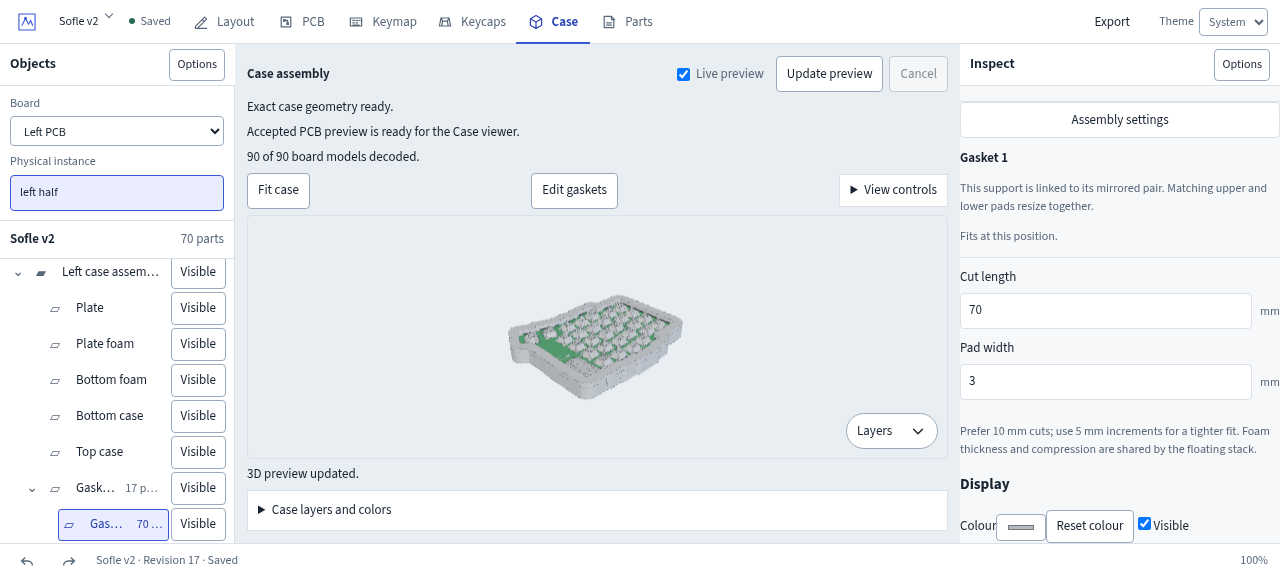
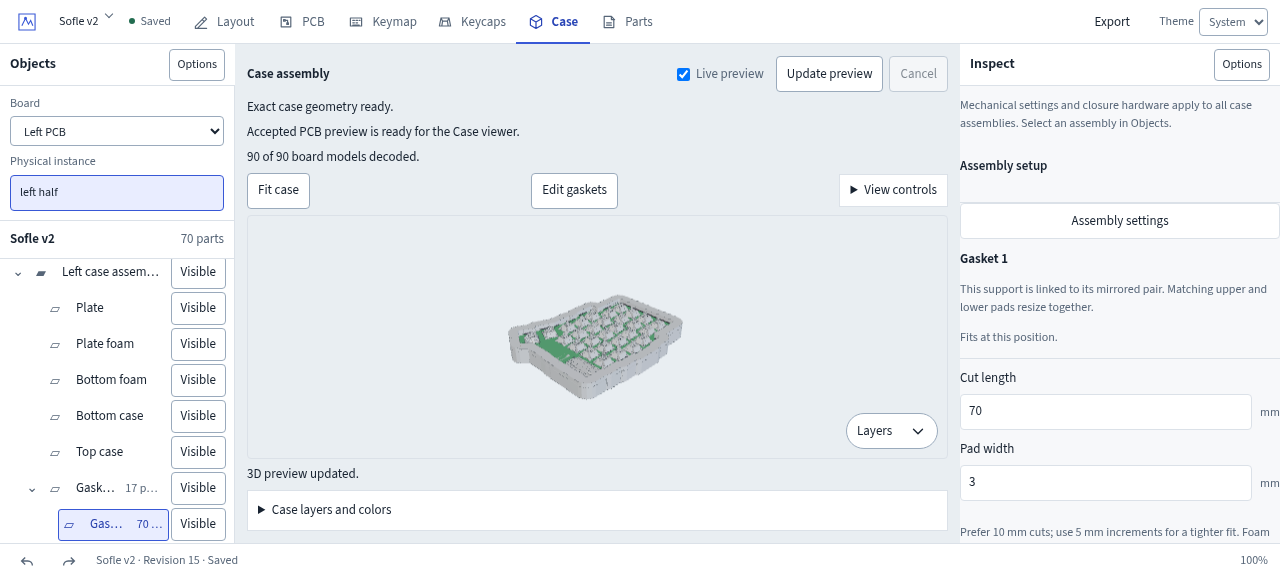
Admit gasket settings contextual selection

diff --git a/web/src/presentation/mechanical_settings_mount.rs b/web/src/presentation/mechanical_settings_mount.rs
@@ -401,7 +401,10 @@ pub(crate) fn use_mechanical_settings_mount(
             selected_layer == format!("gasket:{}:lower", support.id)
                 || selected_layer == format!("gasket:{}:upper", support.id)
         });
-        if !layers.iter().any(|layer| layer.id == selected_layer) && !selected_gasket_support {
+        if !layers.iter().any(|layer| layer.id == selected_layer)
+            && !selected_gasket_support
+            && !(selected_layer == "gaskets" && !gasket_supports.is_empty())
+        {
             selected_layer.clear();
         }
         let enabled = current.editable && !controller.is_busy();
@@ -450,6 +453,7 @@ pub(crate) fn use_mechanical_settings_mount(
                 };
                 let exists = scene.mechanical.as_ref().is_some_and(|assembly| {
                     assembly.stack.iter().any(|layer| layer.id == id)
+                        || (id == "gaskets" && !assembly.gasket_supports.is_empty())
                         || (assembly.gasket_supports.iter().any(|support| {
                             id == format!("gasket:{}:lower", support.id)
                                 || id == format!("gasket:{}:upper", support.id)

diff --git a/.scratch/dioxus-case-workspace/evidence/13-contextual-gasket-layout-return-20261003/README.md b/.scratch/dioxus-case-workspace/evidence/13-contextual-gasket-layout-return-20261003/README.md
@@ -8,10 +8,10 @@ Browser profile: `case-reset-react-reference-20261003`; it imported the accepted
 
 ## Dioxus source comparison
 
-Integrated candidate `fe86fa05598dee6ef8ffb02f9f6fcfaa6810f10d` showed the selected `Gasket 1` Inspector with `Assembly settings`, `Cut length`, and `Pad width`, but no `All gasket settings` control. Its snapshot is `dioxus-support.snapshot.txt`. This is a private contextual-Inspector gap; the accepted document and generated support projection are already present.
+Integrated candidate `fe86fa05598dee6ef8ffb02f9f6fcfaa6810f10d` showed the selected `Gasket 1` Inspector with `Assembly settings`, `Cut length`, and `Pad width`, but no `All gasket settings` control. Its snapshot is `dioxus-support.snapshot.txt`. Candidate `34751` included the new button, but clicking it left the Inspector on `Gasket 1`; `dioxus-rejected-action-34751.snapshot.txt` captures the outcome. The button's `gaskets` target was rejected by the existing exact-current `MechanicalSettingsMount` selection guards, which only admitted generated stack body IDs and individual gasket IDs.
 
 ## Scope
 
-Add the same navigation control to the existing private selected-support Inspector. Route it through the current `on_select_layer` callback with layer ID `gaskets`, keeping the active Scope, MechanicalSettings controller, accepted document, and history unchanged. No support resizing, gasket settings, history, renderer, or shared Inspector ownership changes belong in this packet.
+Add the same navigation control to the existing private selected-support Inspector. Route it through the current `on_select_layer` callback with layer ID `gaskets`; admit that group selection through the existing current-scene guards only when the accepted exact Case scene contains gasket supports. Keep the active Scope, MechanicalSettings controller, accepted document, and history unchanged. No support resizing, gasket settings, history, renderer, or shared Inspector ownership changes belong in this packet.
 
-Source implementation is in `web/src/presentation/mechanical_settings.rs` in isolated worktree `/home/chris/.local/share/boardstudio/worktrees/case-gasket-settings-return-20261003`, based on integration HEAD `145cb6c0a5746809460b494b841bf0134c34e924`. Candidate journey is pending the joined build.
[1 lines of base64/hex data omitted]

diff --git a/.scratch/dioxus-case-workspace/issues/13-case-contextual-gasket-support-sizing.md b/.scratch/dioxus-case-workspace/issues/13-case-contextual-gasket-support-sizing.md
@@ -8,7 +8,7 @@
 
 **Capability start condition:** The current Case tree exposes exact generated gasket support rows, and MechanicalSettings owns a scoped request/outcome controller. This packet adds only the contextual form and the missing support-size patch to that existing owner.
 
-**Status:** same-original5b-archive React/Dioxus linked sizing, Undo/Redo, reopen, and saved-anchor comparison passed on Dioxus candidate source `e4bad4a6f03fd5a76fabdfb1b33809f2cd106840`. A follow-up source comparison found React's `All gasket settings` navigation missing from the Dioxus selected-support Inspector; the private implementation is in progress on base `145cb6c0`. See [implementation handoff](../evidence/13-contextual-gasket-support-sizing/implementation-handoff.md), [public sizing receipt](../evidence/13-contextual-gasket-support-sizing/public-receipt.md), and [layout-return evidence](../evidence/13-contextual-gasket-layout-return-20261003/README.md). Parent acceptance joins remain open.
+**Status:** same-original5b-archive React/Dioxus linked sizing, Undo/Redo, reopen, and saved-anchor comparison passed on Dioxus candidate source `e4bad4a6f03fd5a76fabdfb1b33809f2cd106840`. A follow-up found React's `All gasket settings` navigation missing. Candidate `34751` exposed the button, but the existing scoped selection guard rejected its `gaskets` group target; the private route admission fix is now frozen for the next candidate. See [implementation handoff](../evidence/13-contextual-gasket-support-sizing/implementation-handoff.md), [public sizing receipt](../evidence/13-contextual-gasket-support-sizing/public-receipt.md), and [layout-return evidence](../evidence/13-contextual-gasket-layout-return-20261003/README.md). Parent acceptance joins remain open.
 
 **Reviewed draft:** [Contextual gasket support sizing](../drafts/13-case-contextual-gasket-support-sizing.md).
 
